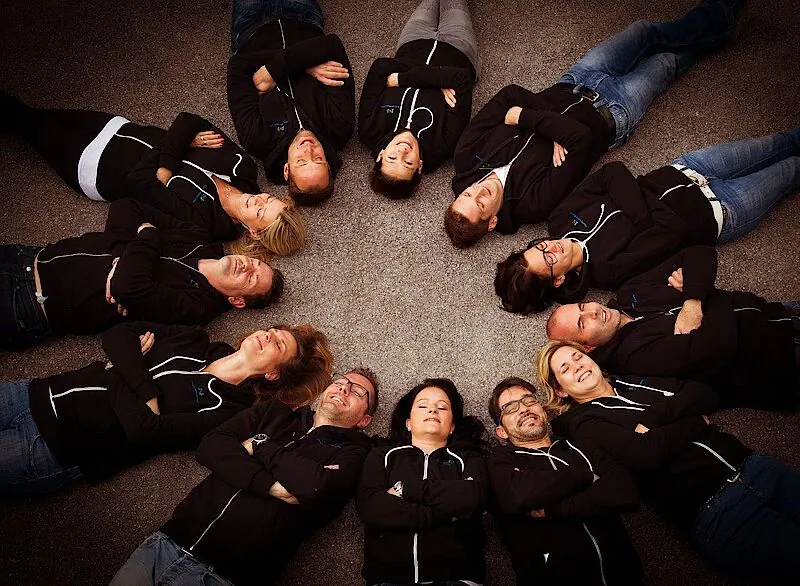
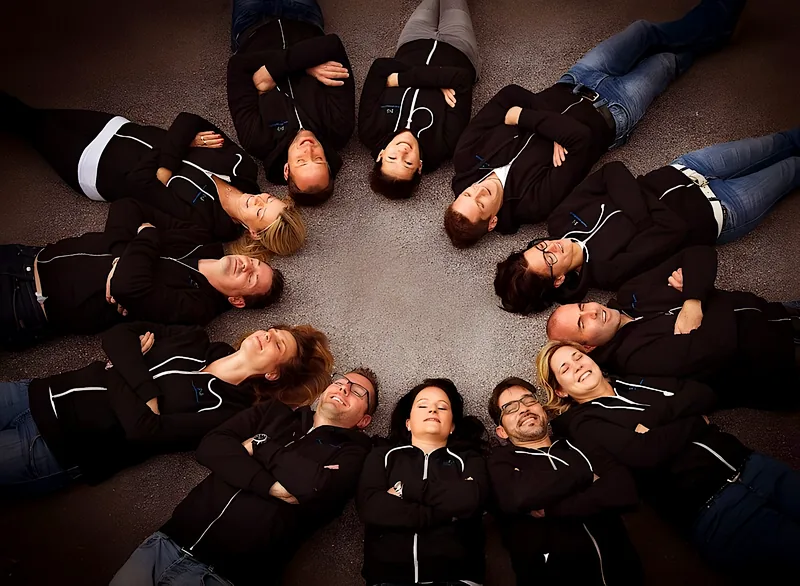
Schärferes Gruppenfoto

diff --git a/ueber-uns.html b/ueber-uns.html
@@ -42,7 +42,7 @@
 </div></section>
 
 <section class="abschnitt-eng" style="padding-top:0" id="geschichte"><div class="huelle">
-  <figure class="kreisbild"><img src="bilder/haende-800.webp" srcset="bilder/haende-800.webp 800w" sizes="(max-width:1000px) 100vw, 960px" width="800" height="586" alt="Die Mitglieder von Freunde schenken Freude liegen im Kreis auf dem Boden" loading="lazy" decoding="async"></figure>
+  <figure class="kreisbild"><img src="bilder/haende-1600.webp" srcset="bilder/haende-800.webp 800w, bilder/haende-1600.webp 1600w" sizes="(max-width:1000px) 100vw, 960px" width="3200" height="2344" alt="Die Mitglieder von Freunde schenken Freude liegen im Kreis auf dem Boden" loading="lazy" decoding="async"></figure>
 </div></section>
 
 <section class="abschnitt" style="padding-top:clamp(40px,6vw,80px)"><div class="huelle">

diff --git a/index.html b/index.html
@@ -51,7 +51,7 @@
     </div>
   </div>
   <div class="buehne-bild-rahmen">
-    <figure class="kreisbild buehne-kreis"><img src="bilder/haende-800.webp" srcset="bilder/haende-800.webp 800w" sizes="(max-width:1000px) 100vw, 960px" width="800" height="586" alt="Die Mitglieder von Freunde schenken Freude liegen im Kreis auf dem Boden" fetchpriority="high"></figure>
+    <figure class="kreisbild buehne-kreis"><img src="bilder/haende-1600.webp" srcset="bilder/haende-800.webp 800w, bilder/haende-1600.webp 1600w" sizes="(max-width:1000px) 100vw, 960px" width="3200" height="2344" alt="Die Mitglieder von Freunde schenken Freude liegen im Kreis auf dem Boden" fetchpriority="high"></figure>
   </div>
   <div class="huelle">
     <div class="fakten">
